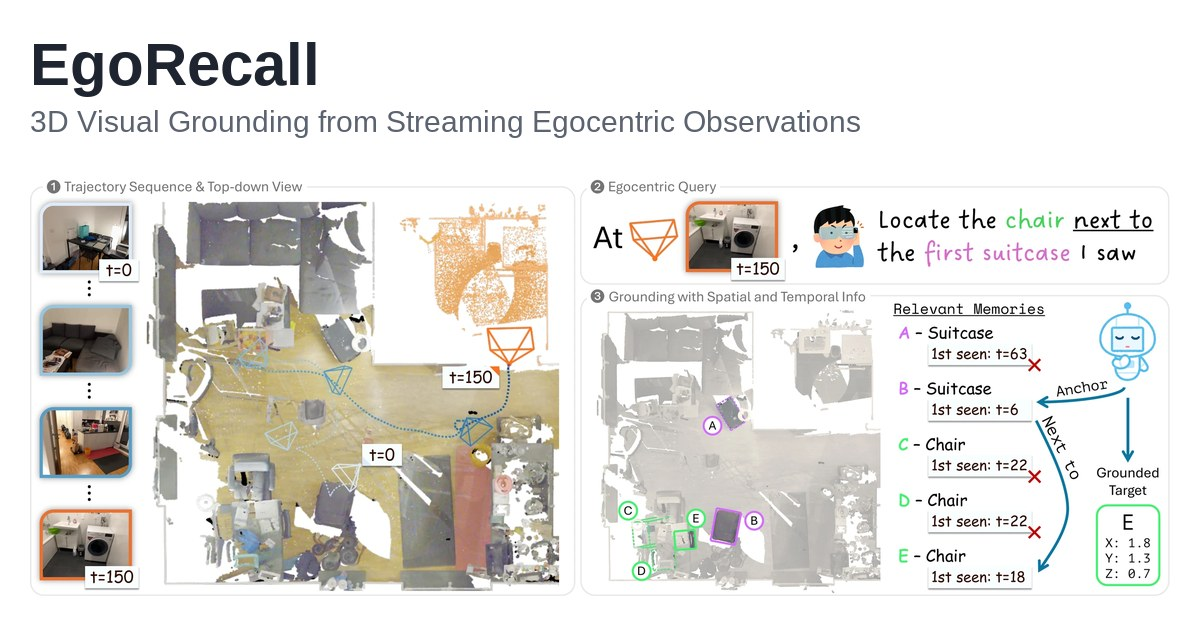
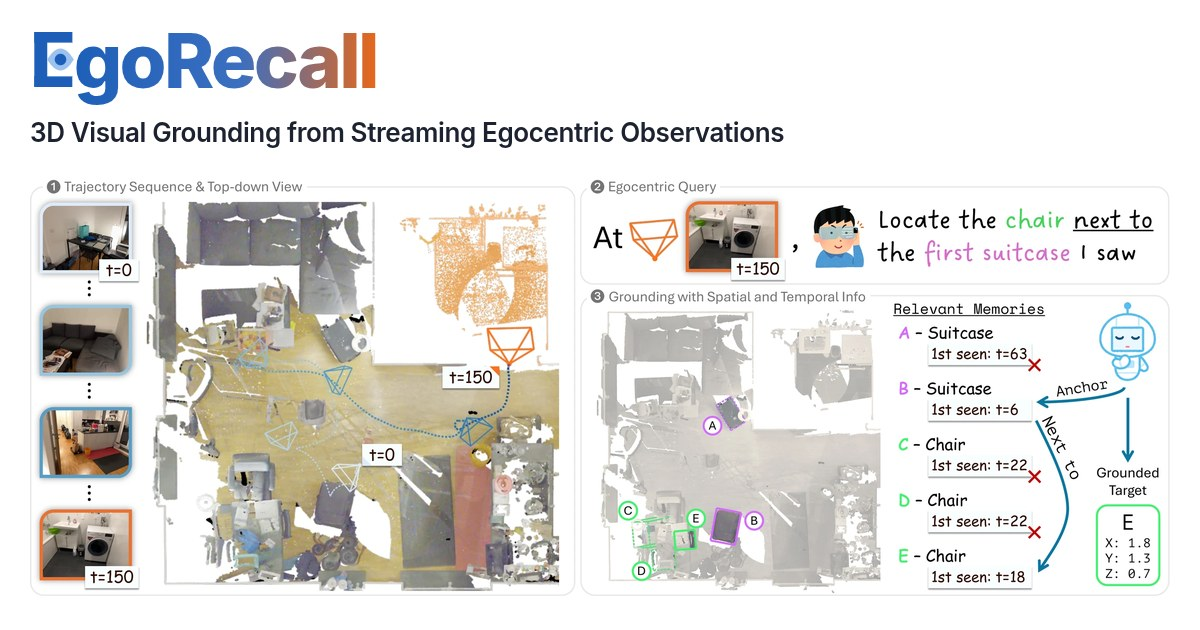
README and title jpg

Changed region(s): [[0.0308, 0.0302, 0.74, 0.2413]]

diff --git a/README.md b/README.md
@@ -1,12 +1,11 @@
-# EgoRecall
+![EgoRecall: 3D Visual Grounding from Streaming Egocentric Observations](docs/static/images/social.jpg)
 
-### EgoRecall: 3D Visual Grounding from Streaming Egocentric Observations
+[Hou In Ivan Tam](https://iv-t.github.io/), [Manolis Savva](https://msavva.github.io/) \
+Simon Fraser University
 
-[Hou In Ivan Tam](https://iv-t.github.io/), [Manolis Savva](https://msavva.github.io/)
-
-<img src="docs/static/images/teaser.webp" alt="teaser" style="width:100%"/>
-
-[Page](https://3dlg-hcvc.github.io/EgoRecall/) | [Paper]() | [Data](https://huggingface.co/datasets/3dlg-hcvc/EgoRecall)
[1 lines of base64/hex data omitted]
+[![Paper](https://img.shields.io/badge/Paper-b31b1b?style=for-the-badge&logo=arxiv&logoColor=white)]()
+[![Dataset](https://img.shields.io/badge/Dataset-FFD21E?style=for-the-badge&logo=huggingface&logoColor=000)](https://huggingface.co/datasets/3dlg-hcvc/EgoRecall)
 
 
 
@@ -74,6 +73,12 @@ cache_root = "/path/to/egorecall_cache"     # directory for storing step 4's out
 ### 4. Prepare Observations
 Extract relevant data from the ScanNet++ files using our command-line tools.
 The prepared files are stored in `cache_root` and are ready for use by our Python API for training and evaluation.
+
+To prepare all splits and check everything afterward, run:
+```bash
+for s in train val test; do egorecall-prepare --config configs/paths.toml --split $s; done
+egorecall-check --config configs/paths.toml --source --cache
+```
 
 `egorecall-prepare` reads each scene's ScanNet++ files and packs its sampled frames, cameras, and object boxes into one H5 file in `cache_root`.
 ```bash
